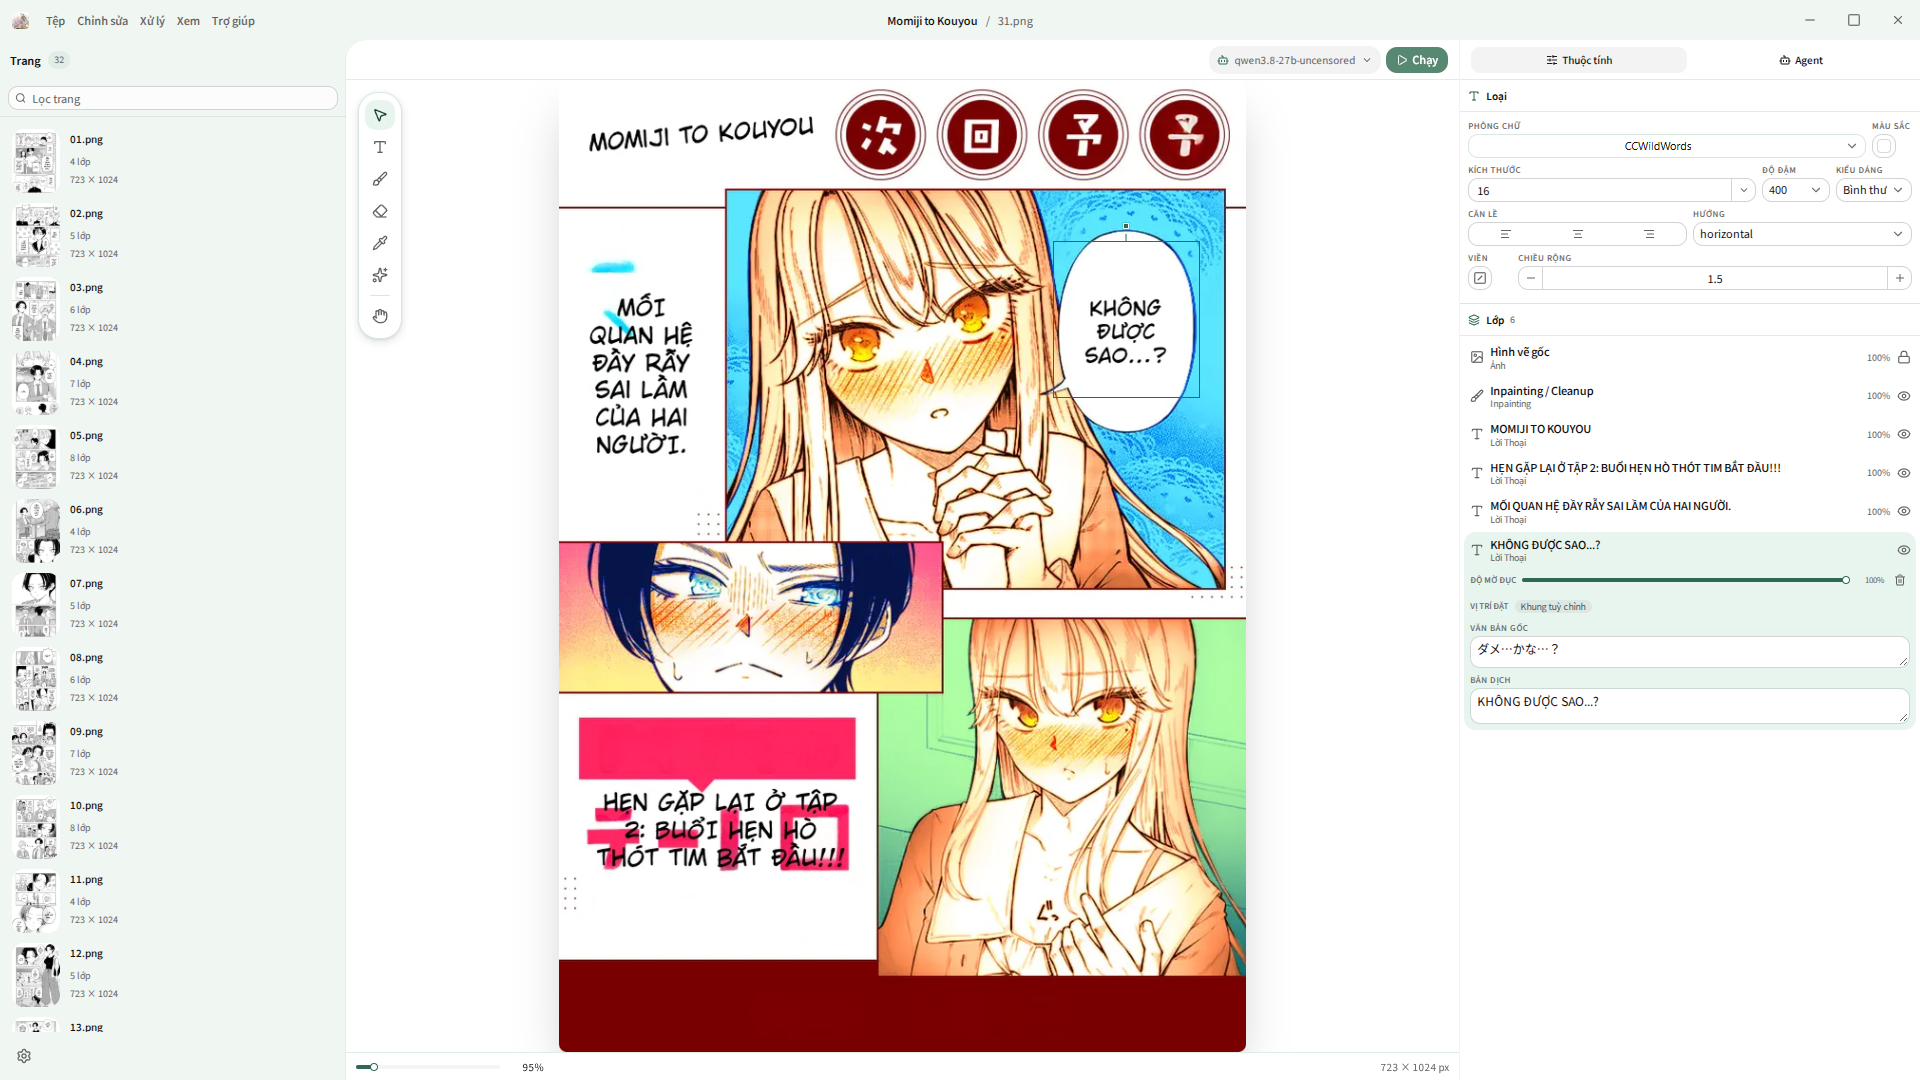
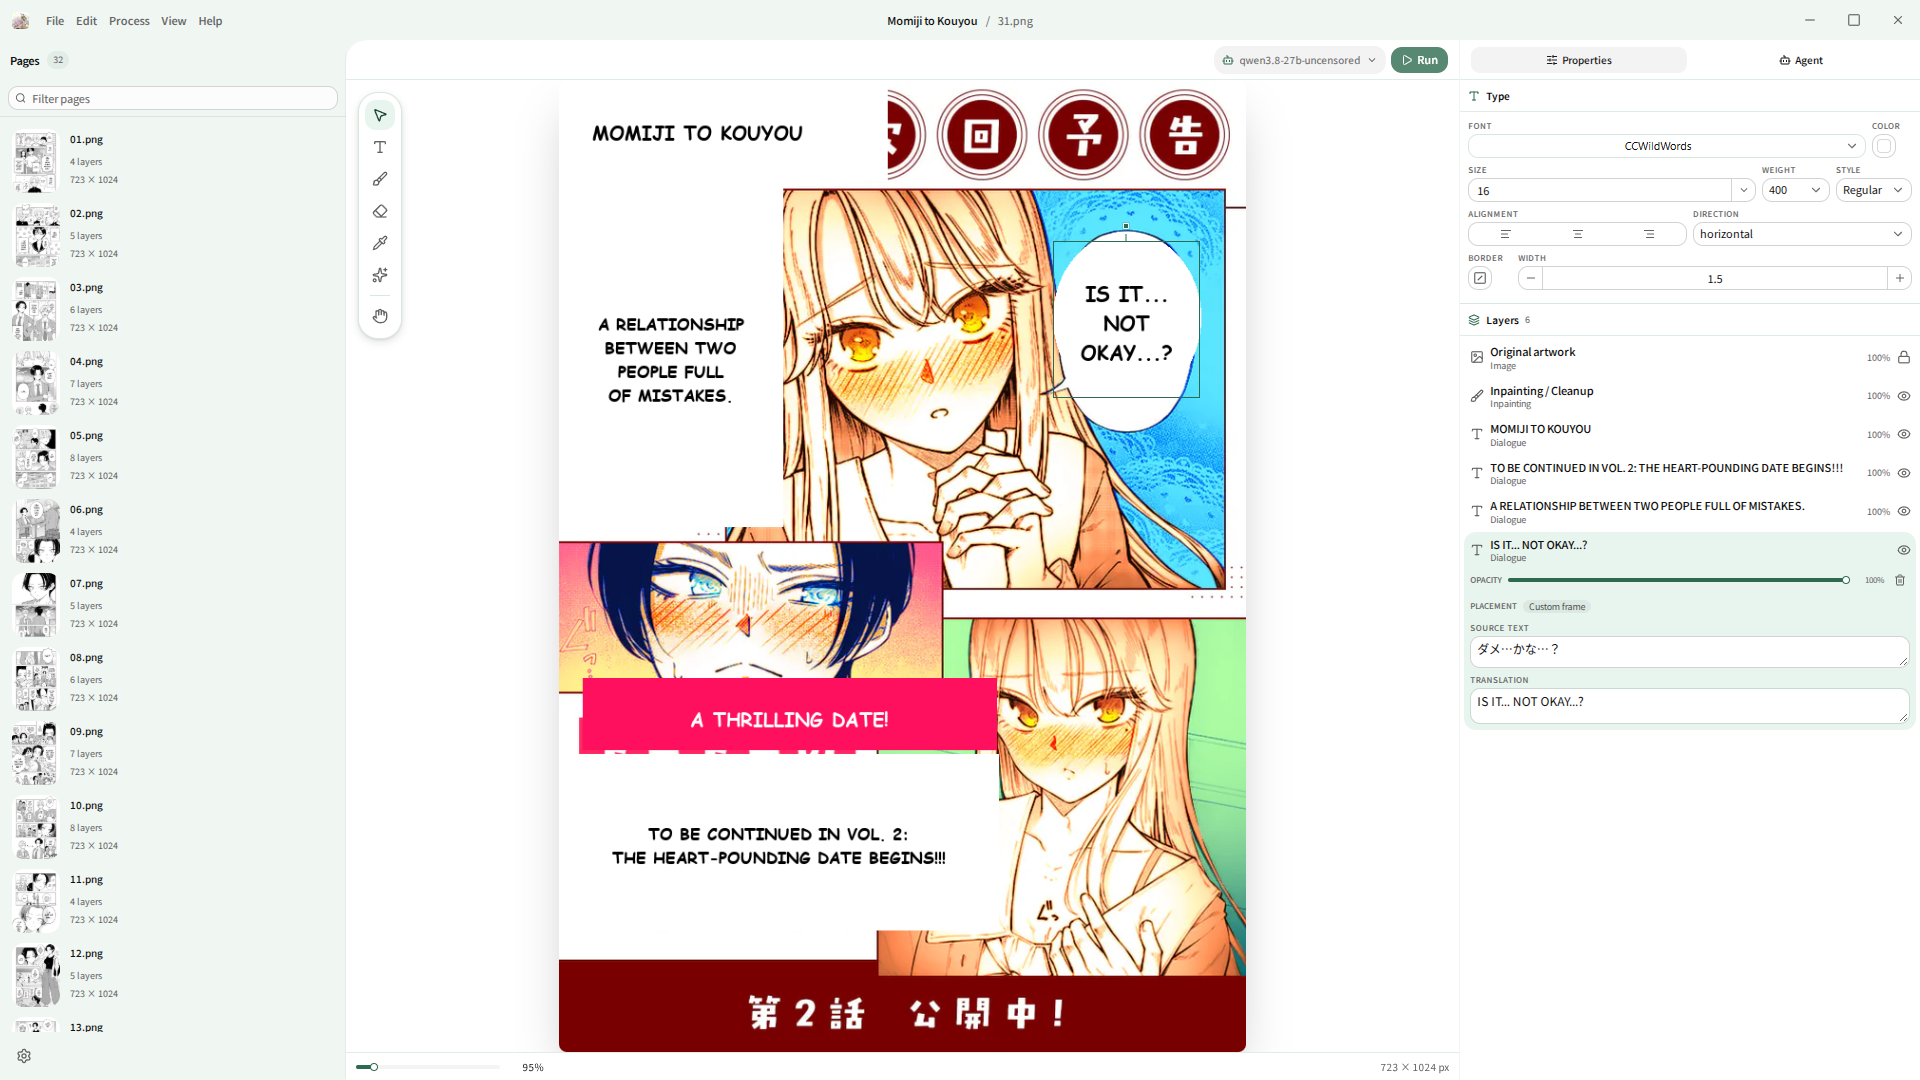
docs: update showcase screenshot and mock preview to English

diff --git a/packages/koharu/lib/mock.ts b/packages/koharu/lib/mock.ts
@@ -49,7 +49,7 @@ export const MOCK_PAGE: Page = {
       content: {
         id: 'content-1',
         source: { text: 'ダメ…かな…？', language: 'ja' },
-        translation: { text: 'KHÔNG ĐƯỢC SAO...?', language: 'vi' },
+        translation: { text: 'IS IT... NOT OKAY...?', language: 'en' },
         role: 'dialogue',
         source_region: null,
       },
@@ -77,7 +77,7 @@ export const MOCK_PAGE: Page = {
       content: {
         id: 'content-2',
         source: { text: '間違いだらけの二人の関係。', language: 'ja' },
-        translation: { text: 'MỐI QUAN HỆ ĐẦY RẪY SAI LẦM CỦA HAI NGƯỜI.', language: 'vi' },
+        translation: { text: 'A RELATIONSHIP BETWEEN TWO PEOPLE FULL OF MISTAKES.', language: 'en' },
         role: 'dialogue',
         source_region: null,
       },
@@ -105,7 +105,7 @@ export const MOCK_PAGE: Page = {
       content: {
         id: 'content-3',
         source: { text: '２巻に続く、ドキドキのデートが始まる！！！', language: 'ja' },
-        translation: { text: 'HẸN GẶP LẠI Ở TẬP 2: BUỔI HẸN HÒ THÓT TIM BẮT ĐẦU!!!', language: 'vi' },
+        translation: { text: 'TO BE CONTINUED IN VOL. 2: THE HEART-POUNDING DATE BEGINS!!!', language: 'en' },
         role: 'dialogue',
         source_region: null,
       },
@@ -133,7 +133,7 @@ export const MOCK_PAGE: Page = {
       content: {
         id: 'content-4',
         source: { text: '紅葉と黄葉', language: 'ja' },
-        translation: { text: 'MOMIJI TO KOUYOU', language: 'vi' },
+        translation: { text: 'MOMIJI TO KOUYOU', language: 'en' },
         role: 'dialogue',
         source_region: null,
       },
@@ -259,7 +259,7 @@ export const MOCK_PREFERENCES: Preferences = {
     ocr: 'paddleocr-vl-1.6',
     inpainting: 'lama',
     translation: {
-      target_language: 'vi-VN',
+      target_language: 'en-US',
       model: {
         provider: 'local',
         model: 'qwen3.8-27b-uncensored',

diff --git a/packages/koharu/app/providers.tsx b/packages/koharu/app/providers.tsx
@@ -54,6 +54,7 @@ export function Providers({ children }: { children: ReactNode }) {
     if (!lifecycle.bound) {
       lifecycle.bound = true
       if (typeof window === 'undefined' || !(window as unknown as { __TAURI_INTERNALS__?: unknown }).__TAURI_INTERNALS__) {
+        void i18n.changeLanguage('en-US')
         receiveStartupState({
           preferences: MOCK_PREFERENCES,
           jobs: [],
